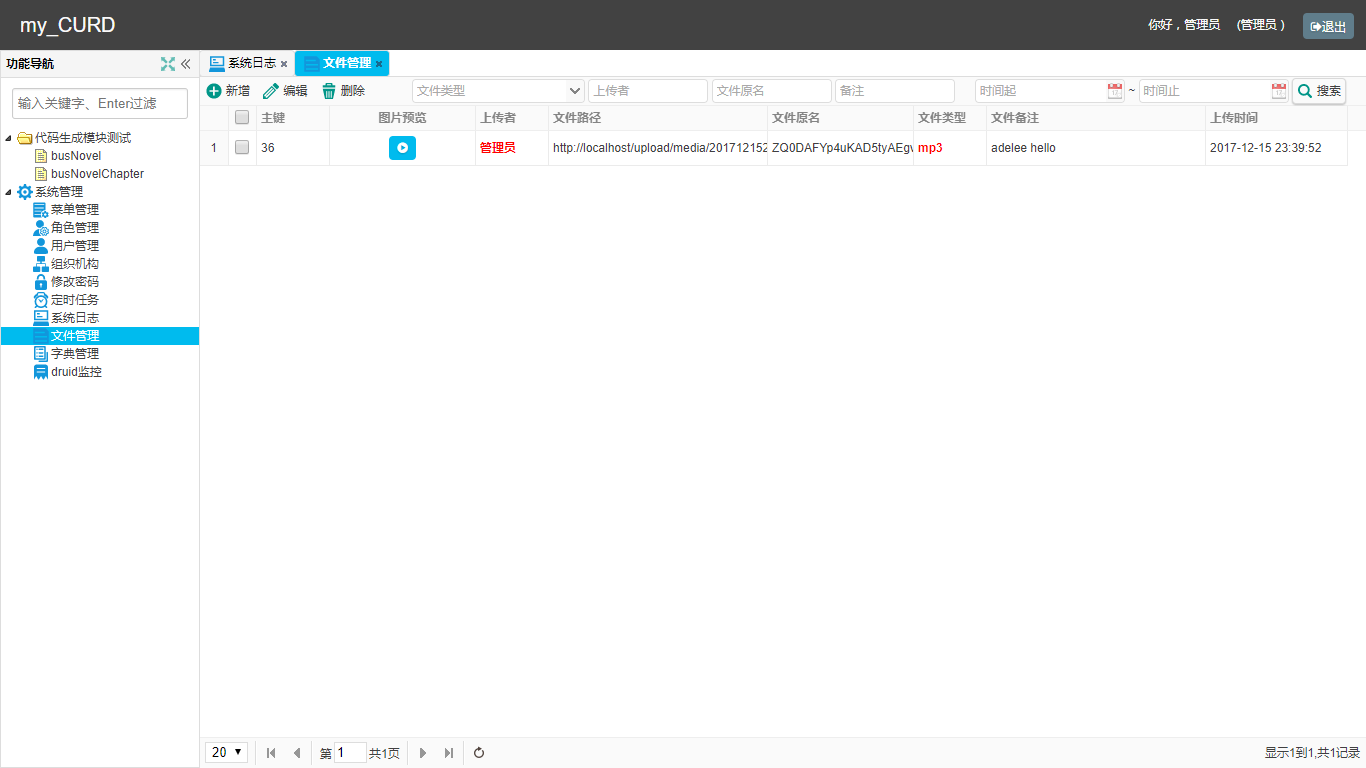
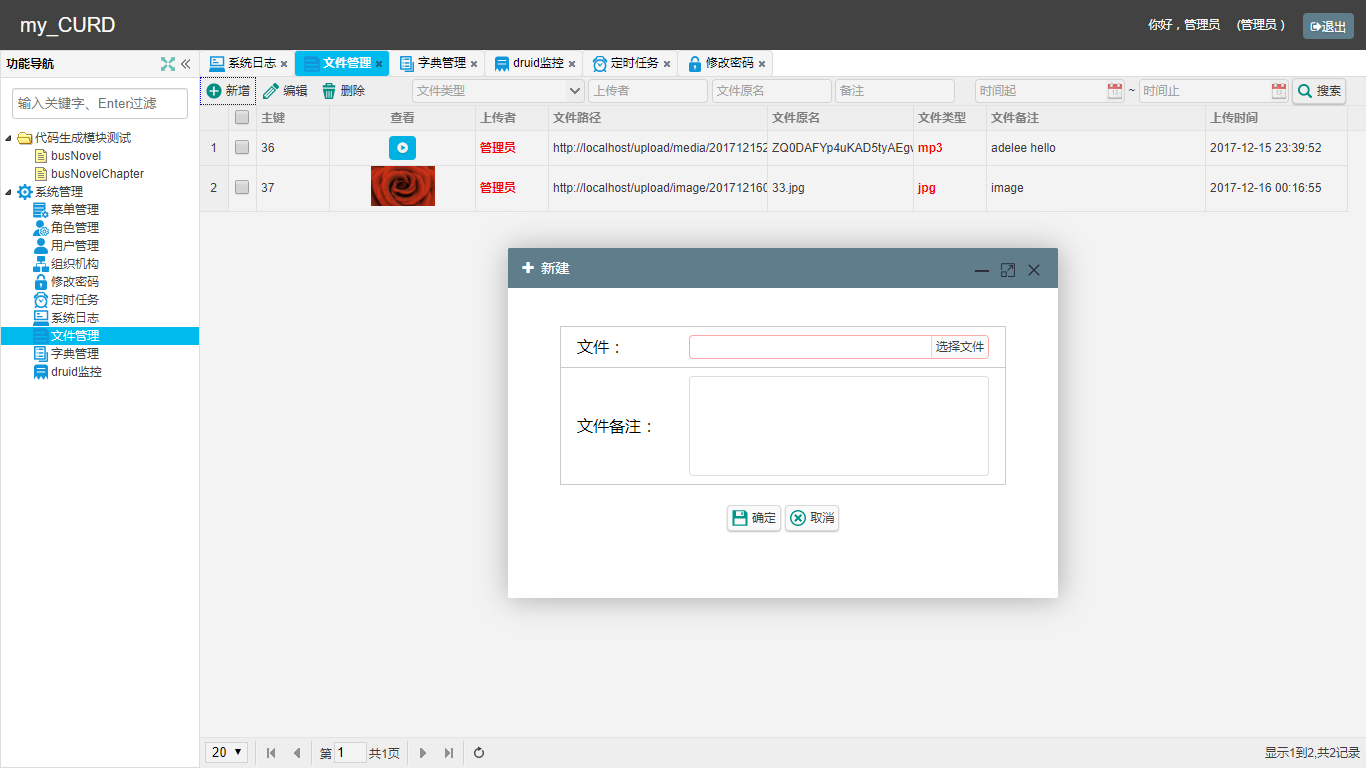
edit

diff --git a/src/main/webapp/WEB-INF/views/system/sysFile.html b/src/main/webapp/WEB-INF/views/system/sysFile.html
@@ -95,7 +95,7 @@
         <th data-options="field:'ck',checkbox:true"></th>
         <th field="id" width="100">主键</th>
 
-        <th field="img_view" width="200" formatter="fView" align="center">图片预览</th>
+        <th field="img_view" width="200" formatter="fView" align="center">查看</th>
         <th field="name" width="100" formatter="redFormat">上传者</th>
         <th field="path" width="300" formatter="pathFormat">文件路径</th>
 
